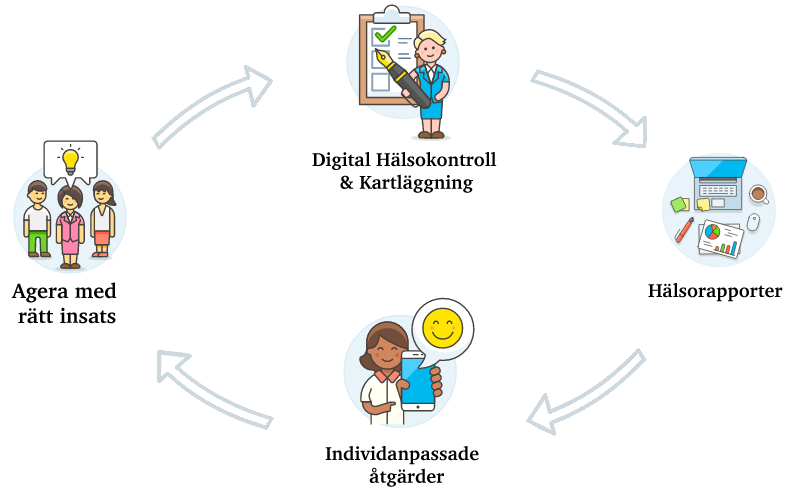
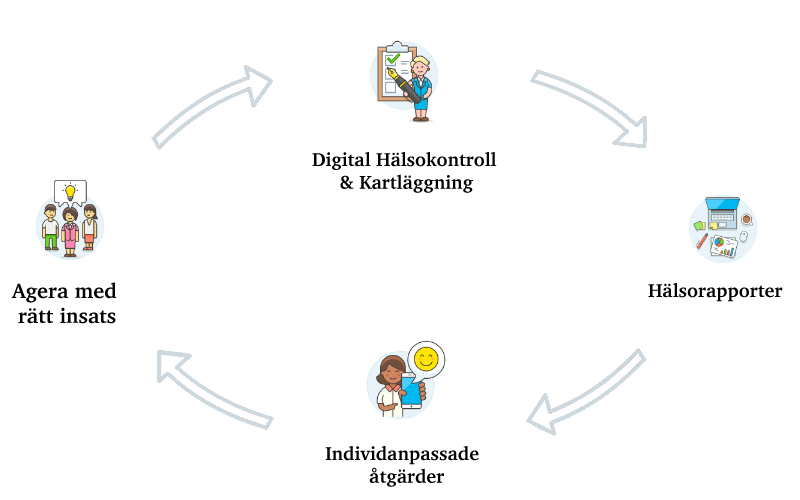
Added two js files to Home and About

diff --git a/you-go-healthplan/src/pages/home.js b/you-go-healthplan/src/pages/home.js
@@ -7,11 +7,15 @@ import FotterComponent from "../components/FooterComp";
 import VideoHeader from "../components/VideoHeader";
 import SliderComp from "../components/SliderComp";
 import Customers from "../data/partnersAndCustomers.json";
-import Circle from "../images/YouGo_4.png";
+
 import HeaderComponent from "../components/HeaderComp";
 
-import TextData from "../data/textHomePage.json";
+import TextDataHome from "../data/textHomePge.js";
 import images from "../data/images.js";
+
+const newLineText = (text) => {
+  return text.split("\n").map((str) => <p>{str}</p>);
+};
 
 const Home = () => {
   return (
@@ -40,14 +44,20 @@ const ContentAboutYouGo = () => {
       <div className="pic-to-left" id="global-goals">
         <img className="about-images" src={images[0].firstHomeImage} />
         <div id="globalGoals-right" className="pic-to-right-text">
-          <p className="rubrikAbout">{TextData.hälsosmartRubrik}</p>
-          <p className="textAbout">{TextData.hälsosmart}</p>
+          <p className="rubrikAbout">
+            {TextDataHome.Health[0].HealthSmartTitle}
+          </p>
+          <p className="textAbout">{TextDataHome.Health[0].HealthSmartText}</p>
         </div>
       </div>
       <div className="pic-to-left" id="global-goals">
         <div id="globalGoals-right" className="pic-to-right-text">
-          <p className="rubrikAbout">{TextData.filosofiRubrik}</p>
-          <p className="textAbout">{TextData.filosofi}</p>
+          <p className="rubrikAbout">
+            {TextDataHome.Philosophy[0].OurPhilosophyTitle}
+          </p>
+          <p className="textAbout">
+            {TextDataHome.Philosophy[0].OurPhilosophyText}
+          </p>
         </div>
         <img className="about-images" src={images[0].secondHomeImage} />
       </div>
@@ -62,12 +72,17 @@ const ColorContainer = () => {
         <div className="card-container">
           <div className="card-front-1">
             <img className="picture" src={images[0].homeFirstCard}></img>
-            <div className="rubrik">{TextData.firstCardContainerFront}</div>
-            <div className="text"></div>
+            <div className="rubrik">
+              {TextDataHome.FlipContainers[0].firstCardContainerFront}
+            </div>
           </div>
 
           <div className="card-back-1">
-            <p className="text">{TextData.firstCardContainerBack}</p>
+            <p className="text">
+              {newLineText(
+                TextDataHome.FlipContainers[0].firstCardContainerBack
+              )}
+            </p>
             <NavLink
               className="button-container"
               to="/about"
@@ -83,12 +98,16 @@ const ColorContainer = () => {
         <div className="card-container">
           <div className="card-front-2">
             <img className="picture" src={images[0].homeSecondCard}></img>
-            <div className="rubrik">{TextData.secondCardContainerFront}</div>
+            <div className="rubrik">
+              {TextDataHome.FlipContainers[0].secondCardContainerFront}
+            </div>
             <div className="text"></div>
           </div>
 
           <div className="card-back-2">
-            <p className="text">{TextData.secondCardContainerBack}</p>
+            <p className="text">
+              {TextDataHome.FlipContainers[0].secondCardContainerBack}
+            </p>
             <NavLink
               className="button-container"
               to="/contact"
@@ -104,12 +123,16 @@ const ColorContainer = () => {
         <div className="card-container">
           <div className="card-front-3">
             <img className="picture" src={images[0].homeThirdCard}></img>
-            <div className="rubrik">{TextData.thirdCardContainerFront}</div>
+            <div className="rubrik">
+              {TextDataHome.FlipContainers[0].thirdCardContainerFront}
+            </div>
             <div className="text"></div>
           </div>
 
           <div className="card-back-3">
-            <p className="text">{TextData.thirdCardContainerBack}</p>
+            <p className="text">
+              {TextDataHome.FlipContainers[0].thirdCardContainerBack}
+            </p>
             <NavLink
               className="button-container"
               to="/pricing"
@@ -127,23 +150,27 @@ const ColorContainer = () => {
 const ContainerInfoCircle = () => {
   return (
     <div id="InfoContainer">
-      <p id="firstBoxRubrik">{TextData.såHärJobbarViRubrik}</p>
+      <p id="firstBoxRubrik">{TextDataHome.HowWeWork[0].howWeWorkTitle}</p>
       <div id="firstBox">
-        <img id="icon" src={Circle} alt="icon"></img>
+        <img id="icon" src={images[0].howWeWork} alt="icon"></img>
       </div>
       <div id="column-2-content">
         <div id="Content-button-1">
-          <HoverButton text={TextData.textDigitalHälsokontroll} />
+          <HoverButton
+            text={TextDataHome.HowWeWork[0].textDigitalHealthCheck}
+          />
         </div>
         <div id="Content-button-3">
-          <HoverButton text={TextData.textIndividanpassadeÅtgärder} />
+          <HoverButton
+            text={TextDataHome.HowWeWork[0].textIndividualizedMeasures}
+          />
         </div>
       </div>
       <div id="Content-button-2">
-        <HoverButton text={TextData.textHälsorapporter} />
+        <HoverButton text={TextDataHome.HowWeWork[0].textHealthreports} />
       </div>
       <div id="Content-button-4">
-        <HoverButton text={TextData.textAgeraMedRättInsats} />
+        <HoverButton text={TextDataHome.HowWeWork[0].textActWiththeRightBet} />
       </div>
     </div>
   );

diff --git a/you-go-healthplan/src/data/textHomePge.js b/you-go-healthplan/src/data/textHomePge.js
@@ -1,0 +1,48 @@
+const textHomePage = {
+  Health: [
+    {
+      HealthSmartTitle: "Hälsosmart",
+      HealthSmartText:
+        "Dagens utmaning för arbetsgivaren är att man har kostsamma och generella åtgärder utan resultat. Vi vill att man tar kontroll genom att kartlägga och mäta effekten av friskvårdinsatser då vi vet att förebygga hälsa är mer kostnadseffektivt än att rehabilitera! På de flesta arbetsplatser visar beräkningar att det är en ren vinst att utöka friskvården, särskilt om den når människor inte värnar om sin hälsa på eget initiativ. Lönsam friskvård är till exempel pulshöjande motion, att äta regelbundet och rätt sammansatt, finna tid för återhämtning, hjälp att sluta röka, gå ner i vikt med mera. Har medarbetarna redan god hälsa är det viktigt att se till att friskheten består.",
+    },
+  ],
+  Philosophy: [
+    {
+      OurPhilosophyTitle: "Vår Filosofi",
+      OurPhilosophyText:
+        "Vi arbetar proaktivt för att tidigt fånga upp signaler på ohälsa. Alla företag är olika. Vi tar reda på vilka åtgärder just ER organisation behöver. Vår styrka är att nå de medarbetare som är mest ohälsosamma inom olika kategorierna som rör hälsa. Forskningen visar att medarbetare behöver må bra för att göra ett gott jobb och leverera önskat resultat.",
+    },
+  ],
+  FlipContainers: [
+    {
+      firstCardContainerFront: "Hur går det till",
+      firstCardContainerBack: `Vi skapar friska medarbetare genom vår innovativa digitala hälsotjänst som möjliggör att anställda och arbetsgivare tillsammans arbetar hälsostrategiskt.
+      Digital Hälsoanalys & Kartläggning
+      Rekommendationer
+      Digitalt Hälsoportal till alla medarbetare 
+      Hälsofrämjande program/moduler grupp- och individnivå`,
+      secondCardContainerFront: "Enkel Registrering",
+      secondCardContainerBack:
+        "Det går snabbt och enkelt att komma igång oavsett vart ni befinner er då vår tjänst är digital. Kontakta oss så berättar vi mer.",
+
+      thirdCardContainerFront: "Erbjudande",
+      thirdCardContainerBack:
+        "Vad kostnaden är baseras på antal anställda och vilken typ av paketlösning ni väljer, vi har något som passar alla.",
+    },
+  ],
+  HowWeWork: [
+    {
+      howWeWorkTitle: "Så här jobbar vi",
+      textDigitalHealthCheck:
+        "Alla medarbetare svarar på 32 frågor som rör hälsan efter att vi skickat ut en länk till respektive mailadress.",
+      textHealthreports:
+        "När alla svarat på frågorna får, chefen, HR eller ledning direkt rapporter till sig.",
+      textIndividualizedMeasures:
+        "Direkt efter när medarbetarna svarat på sina frågor kommer det åtgärdsförslag till de man ska börja jobba med direkt.Där man har svarat och ligger lägst, Små enkla tips tex börja ät en bra frukost , hoppa av bussen en hållplats tidigare, parkera bilen långt bort från ingången eller säg hej till en kollega man gillar.",
+      textActWiththeRightBet:
+        "Utefter vad kartläggningen visar i rapporterna blir beslutet enklare när nuläget synliggörs.",
+    },
+  ],
+};
+
+export default textHomePage;

diff --git a/you-go-healthplan/src/pages/about.js b/you-go-healthplan/src/pages/about.js
@@ -5,12 +5,12 @@ import MultiCarouselComponent from "../components/MultiCarouselComp";
 import FooterComponent from "../components/FooterComp";
 import Partners from "../data/partnersAndCustomers.json";
 
-import TextDataAboutUs from "../data/textAboutPage.json";
+import TextDataAboutUs from "../data/textAboutPage.js";
 import images from "../data/images.js";
 
 const newLineText = (text) => {
-  return text.split('\n').map(str => <p>{str}</p>);
-}
+  return text.split("\n").map((str) => <p>{str}</p>);
+};
 
 const About = () => {
   return (
@@ -37,13 +37,16 @@ const About = () => {
 const GlobalGoals = () => {
   return (
     <div className="pic-to-left" id="global-goals">
-      <img className="about-images" src={images[0].aboutFirst}/>
+      <img className="about-images" src={images[0].aboutFirst} />
       <div id="globalGoals-right" className="pic-to-right-text">
         <p className="rubrikAbout">
-          {TextDataAboutUs.SustainableDevelopmentTitle}
+          {
+            TextDataAboutUs.SustainableDevelopment[0]
+              .SustainableDevelopmentTitle
+          }
         </p>
         <p className="textAbout">
-          {TextDataAboutUs.SustainableDevelopmentText}
+          {TextDataAboutUs.SustainableDevelopment[0].SustainableDevelopmentText}
         </p>
       </div>
     </div>
@@ -54,9 +57,12 @@ const Philosophy = () => {
   return (
     <div className="pic-to-left">
       <div id="philosophydiv-big" className="pic-to-right-text">
-        <p className="rubrikAbout"> {TextDataAboutUs.YouGosVisionTitle} </p>
+        <p className="rubrikAbout">
+          {" "}
+          {TextDataAboutUs.YouGosVision[0].YouGosVisionTitle}{" "}
+        </p>
         <p className="textAbout">
-          {newLineText(TextDataAboutUs.YouGosVisionText)}
+          {newLineText(TextDataAboutUs.YouGosVision[0].YouGosVisionText)}
         </p>
       </div>
       <img
@@ -70,9 +76,12 @@ const Philosophy = () => {
         src={images[0].aboutSecond}
       />
       <div id="philosophydiv-small" className="pic-to-right-text">
-        <p className="rubrikAbout"> YouGo's vision </p>
+        <p className="rubrikAbout">
+          {" "}
+          {TextDataAboutUs.YouGosVision[0].YouGosVisionTitle}{" "}
+        </p>
         <p className="textAbout">
-          {TextDataAboutUs.YouGosVisionText}
+          {TextDataAboutUs.YouGosVision[0].YouGosVisionText}
         </p>
       </div>
     </div>

diff --git a/you-go-healthplan/src/data/textAboutPage.js b/you-go-healthplan/src/data/textAboutPage.js
@@ -1,0 +1,23 @@
+import textHomePage from "./textHomePge";
+
+const textAboutPage = {
+  pageTitle: "Om YouGo",
+
+  SustainableDevelopment: [
+    {
+      SustainableDevelopmentTitle: "Hållbar Utveckling",
+      SustainableDevelopmentText:
+        "Nr 3 God hälsa är en grundläggande förutsättning för människors möjlighet att nå sin fulla potential och att bidra till samhällets utveckling. Människors hälsa påverkas av ekonomiska, ekologiska och sociala faktorer och mål 3 inkluderar alla dimensioner och människor i alla åldrar. Under de senaste decennierna har stora framsteg gjorts för att förbättra människors hälsa globalt, till exempel så har barndödligheten minskat med 50% sedan 1990. Investeringar i hälsa genom förebyggande insatser och modern och effektiv vård för alla gynnar samhällets utveckling i stort och skapar förutsättningar för människors grundläggande rättigheter till välbefinnande.",
+    },
+  ],
+  YouGosVision: [
+    {
+      YouGosVisionTitle: "YouGo's vision",
+      YouGosVisionText: `SKAPA HÅLLBARA MEDARBETARE - Det finaste ett företag kan ha. 
+        Det är vårt fokus och där vet vi att vi kan göra som mest skillnad för såväl människor, som företag och samhället i stort. 
+        Hållbara medarbetare är vår viktigaste insats i vår strävan mot att bidra till en hälsosam och frisk värld.`,
+    },
+  ],
+};
+
+export default textAboutPage;

diff --git a/you-go-healthplan/src/styling/home.css b/you-go-healthplan/src/styling/home.css
@@ -44,9 +44,6 @@ body {
 
 /*-- Style for Info about YouGo --*/
 
-.infoAboutAll {
-}
-
 .infoAboutYouGo {
   width: 50%;
   padding-left: 1%;
@@ -68,12 +65,6 @@ body {
   width: 75%;
   margin: 0 auto;
   margin-bottom: 5vw;
-}
-
-.imageStyle {
-}
-
-.infoAboutAll {
 }
 
 #imgOfSomething {
@@ -269,6 +260,12 @@ body {
   width: 70%;
 }
 
+@media only screen and (max-width: 1260px) {
+  .text {
+    font-size: 15px;
+  }
+}
+
 @media only screen and (max-width: 1200px) {
   #Content-button-1 {
     padding-left: 37%;
@@ -283,10 +280,29 @@ body {
     padding-top: 45%;
   }
 }
+@media only screen and (max-width: 1140px) {
+  .text {
+    font-size: 12px;
+  }
+}
 @media only screen and (max-width: 800px) {
   #Content-button-3 {
     padding-left: 37%;
     padding-top: 50%;
+  }
+}
+@media only screen and (max-width: 750px) {
+  #colorcontainer {
+    display: block;
+    flex-direction: row;
+    align-items: center;
+  }
+  .g-card {
+    margin: 0 auto;
+    padding: 4px;
+  }
+  .text {
+    font-size: 11px;
   }
 }
 @media only screen and (max-width: 600px) {

diff --git a/you-go-healthplan/src/data/images.js b/you-go-healthplan/src/data/images.js
@@ -7,6 +7,8 @@ import firstHomeCard from "../images/agenda.png";
 import secondHomeCard from "../images/to-do-list.png";
 import thirdHomeCard from "../images/money.png";
 
+import howWeWork from "../images/YouGo_4.png";
+
 //About us page
 import aboutFirst from "../images/hållbarhetsmålTreHälsa.jpg";
 import aboutSecond from "../images/aboutSecond.jpg";
@@ -33,7 +35,7 @@ import youtubeIcon from "../images/youtube.png";
 import footerIcon from "../images/logo.png";
 
 const images = [
-    {
+  {
     //Home page
     headerVideo: headerVideo,
     firstHomeImage: homeFirst,
@@ -42,6 +44,8 @@ const images = [
     homeFirstCard: firstHomeCard,
     homeSecondCard: secondHomeCard,
     homeThirdCard: thirdHomeCard,
+
+    howWeWork: howWeWork,
 
     //About page
     aboutFirst: aboutFirst,
@@ -67,6 +71,7 @@ const images = [
     youtubeIcon: youtubeIcon,
 
     youGoiconFooter: footerIcon,
-}]
+  },
+];
 
 export default images;
